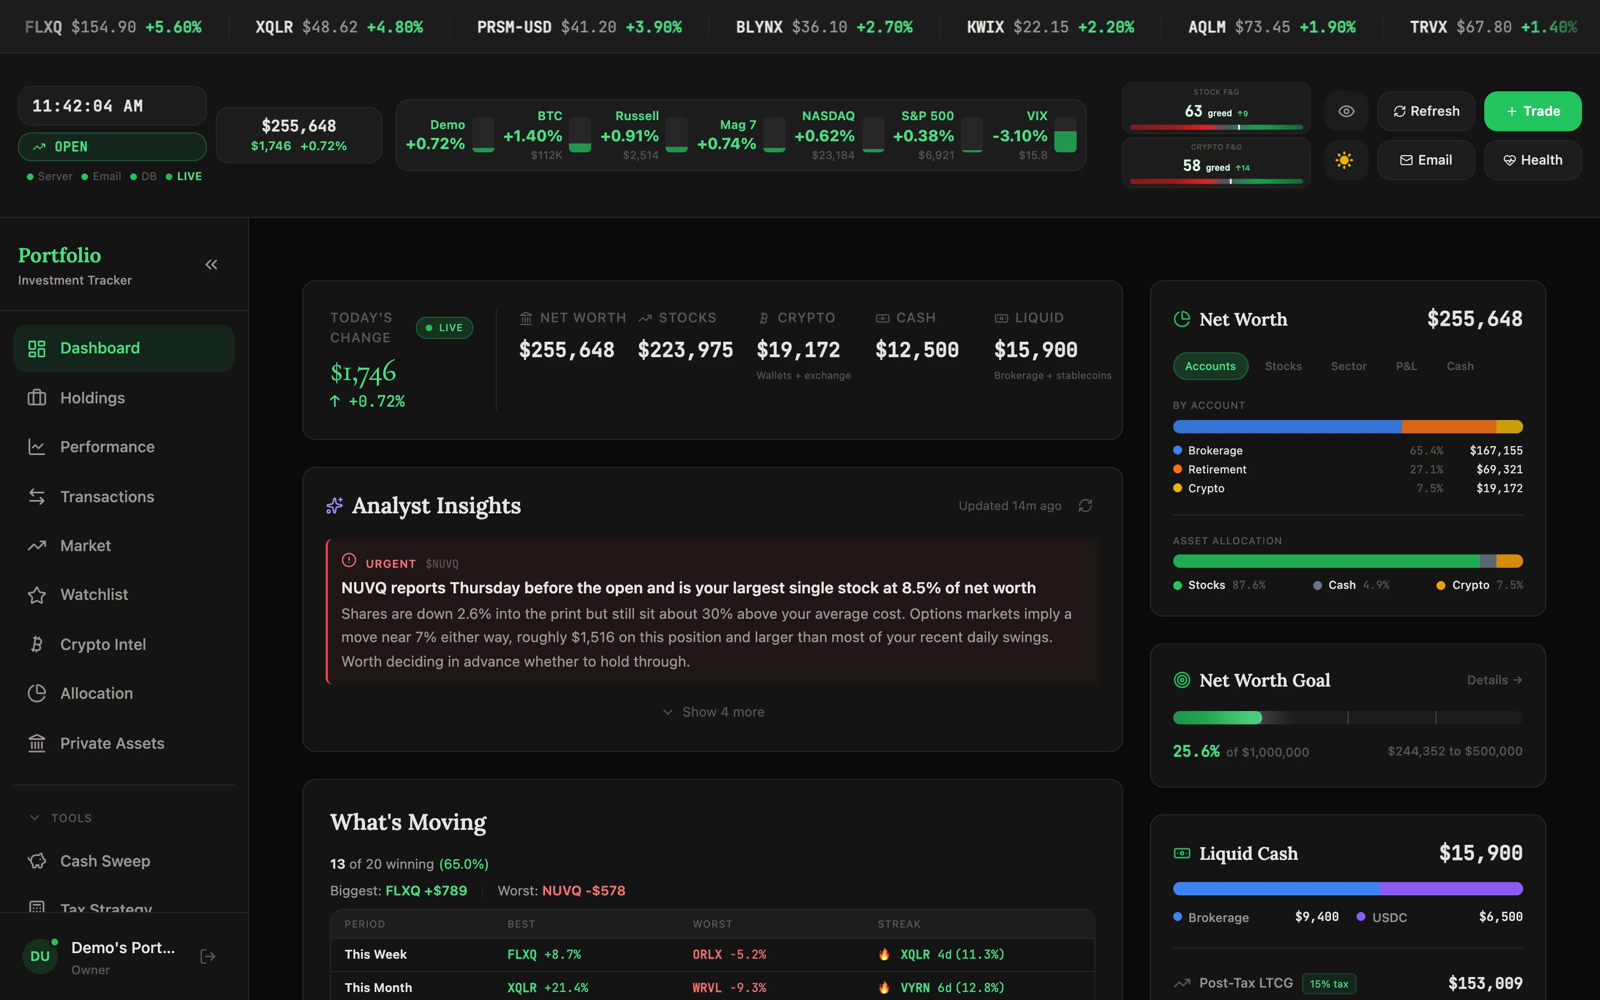
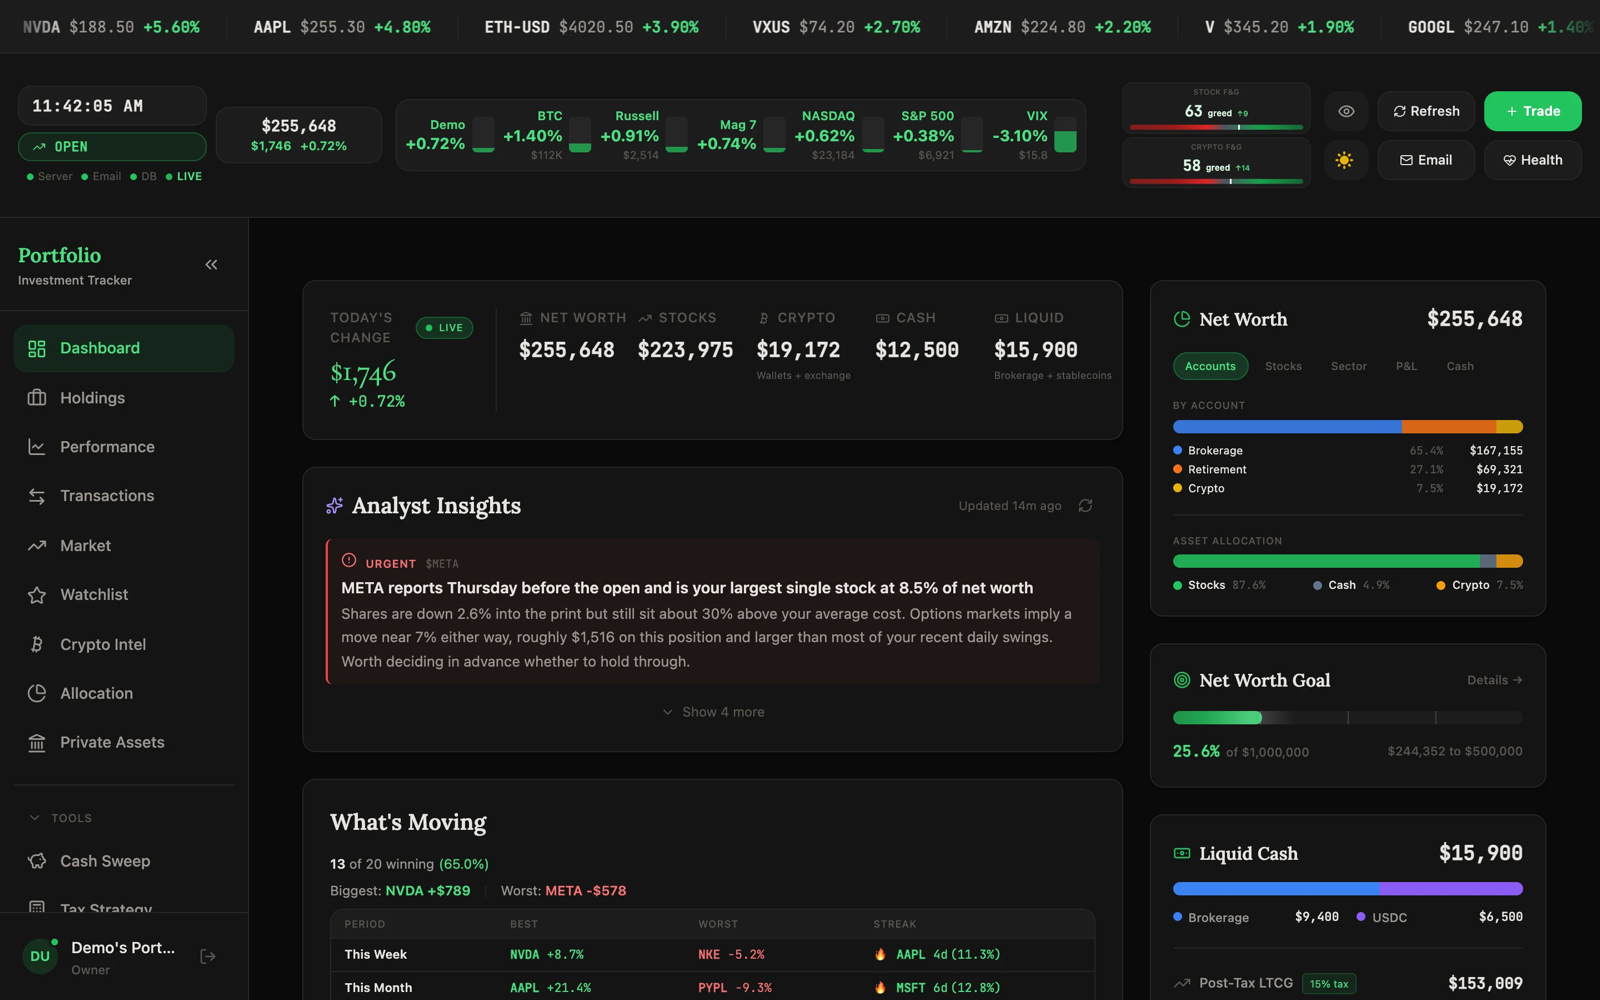
Add all four hero screenshots and label demo data
Portfolio now uses real tickers with fake amounts; glasshouse and Gods
heroes are demo-data renders of the real dashboards. Not published.

diff --git a/README.md b/README.md
@@ -3,7 +3,7 @@
 **Strategic finance by day — Kraken (Onchain pod). Builder the rest of the time.**
 Goldman Sachs IB → Lili → DriveWealth (Corp Dev & Strategy) → Kraken. I build the tools I wish existed, mostly with AI in the loop: products, dashboards, and automations that run every day.
 
-<a href="https://jonnycangemi.com/projects#glasshouse"><img src="./assets/hero-glasshouse.png" width="32%" alt="glasshouse owner cockpit — YouTube KPIs and watch-hours trend"></a>
+<a href="https://jonnycangemi.com/projects#glasshouse"><img src="./assets/hero-glasshouse.png" width="32%" alt="glasshouse owner cockpit — YouTube KPIs and watch-hours trend (demo data)"></a>
 <a href="https://jonnycangemi.com/projects#portfolio"><img src="./assets/hero-portfolio.png" width="32%" alt="Portfolio Automation dashboard (demo data)"></a>
 <a href="https://jonnycangemi.com/projects#beacon"><img src="./assets/hero-beacon.png" width="32%" alt="Beacon job search across 12,000+ companies"></a>
 
@@ -14,7 +14,7 @@ Goldman Sachs IB → Lili → DriveWealth (Corp Dev & Strategy) → Kraken. I bu
 ## Featured builds
 
 ### glasshouse — YouTube automation system
-![glasshouse cockpit](./assets/hero-glasshouse.png)
+![glasshouse cockpit — demo data](./assets/hero-glasshouse.png)
 A YouTube ambient-music channel that runs like a business: a production pipeline on a Mac Mini, a Telegram approval gate (nothing publishes without a human tap), and a custom owner cockpit for watch time, releases, and audience.
 Daily 8 AM ET releases · 12h lives · titles in 15 languages · [Watch on YouTube](https://www.youtube.com/@glasshousefocus) · *Code private — Ensora Ventures*
 
@@ -29,7 +29,7 @@ Multi-source job search and application pipeline for a friends-and-family worksp
 **Live:** [beaconjobtracker.jonnycangemi.com](https://beaconjobtracker.jonnycangemi.com) · *Code private*
 
 ### Tournament of Gods — simulated paper trading
-![Tournament of Gods scorecard](./assets/hero-gods.png)
+![Tournament of Gods scorecard — paper-only demo snapshot](./assets/hero-gods.png)
 Autonomous AI traders (SEKHMET · THOTH · ANUBIS) compete across 6 paper books and 2 arenas — every decision logged and explained. **Paper only: no real trades, ever.** Next: the winning strategy graduates to a supervised agentic paper bot.
 *Code private*
 
